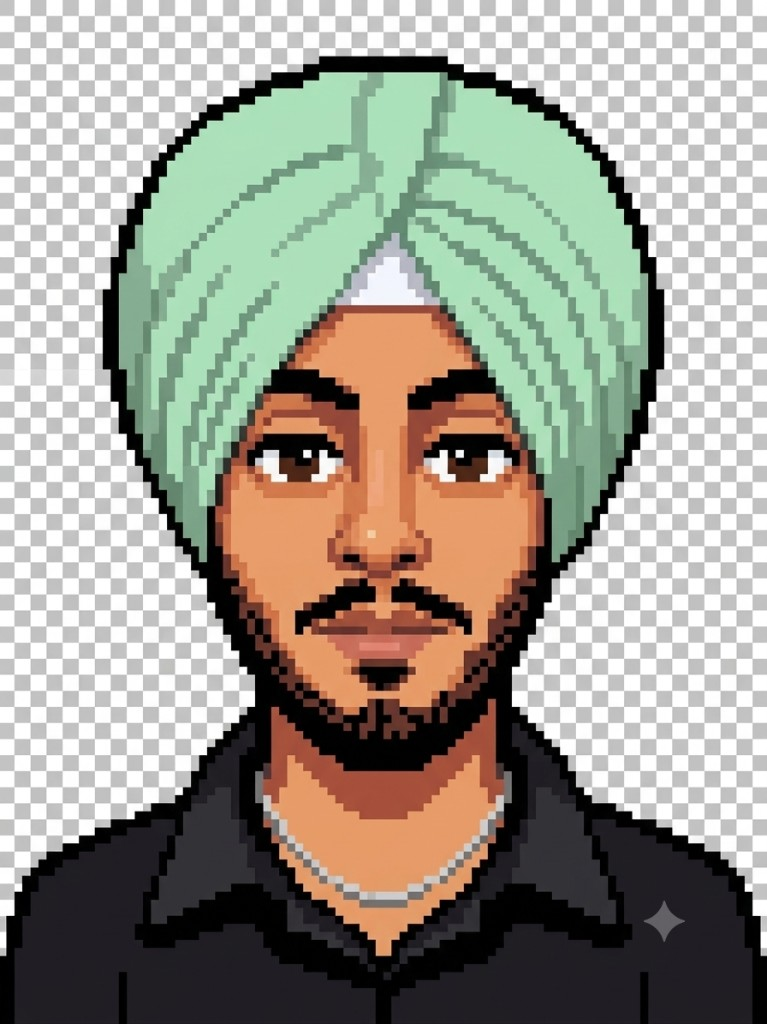
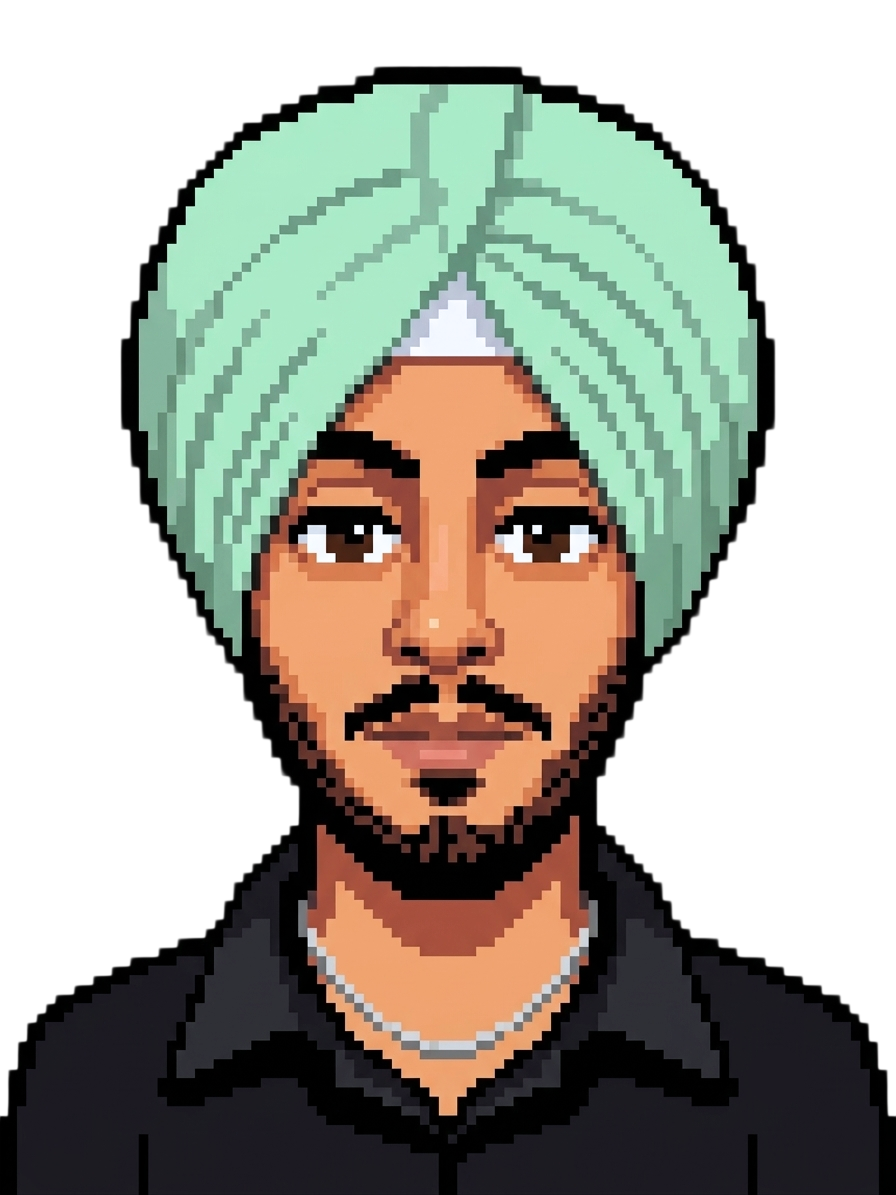
fixed bugs and alingment

Changed region(s): [[0.0, 0.0, 1.0, 0.9375], [0.8396, 0.875, 0.8996, 0.9375]]

diff --git a/app/frontend/src/pages/Home.jsx b/app/frontend/src/pages/Home.jsx
@@ -11,7 +11,7 @@ import LatestGitHubCommit from '@/components/github/LatestGitHubCommit';
 const socials = [
   {
     label: 'Twitter',
-    url: 'https://x.com/ranvir_singh_15',
+    url: 'https://x.com/RanvirxD',
     icon: <svg viewBox="0 0 24 24" fill="none" stroke="currentColor" strokeWidth="1.5" strokeLinecap="round" strokeLinejoin="round" className="w-5 h-5"><path d="M4 4l11.733 16h4.267l-11.733 -16z" /><path d="M4 20l6.768 -6.768m2.46 -2.46l6.772 -6.772" /></svg>,
   },
   {
@@ -26,12 +26,12 @@ const socials = [
   },
   {
     label: 'YouTube',
-    url: 'https://youtube.com/@ranvir_singh',
+    url: 'https://www.youtube.com/@Burnet-Builds',
     icon: <svg viewBox="0 0 24 24" fill="none" stroke="currentColor" strokeWidth="1.5" strokeLinecap="round" strokeLinejoin="round" className="w-5 h-5"><path d="M22.54 6.42a2.78 2.78 0 0 0-1.94-2C18.88 4 12 4 12 4s-6.88 0-8.6.46a2.78 2.78 0 0 0-1.94 2A29 29 0 0 0 1 12a29 29 0 0 0 .46 5.58 2.78 2.78 0 0 0 1.94 2C5.12 20 12 20 12 20s6.88 0 8.6-.46a2.78 2.78 0 0 0 1.94-2A29 29 0 0 0 23 12a29 29 0 0 0-.46-5.58z" /><polygon points="9.75 15.02 15.5 12 9.75 8.98 9.75 15.02" /></svg>,
   },
   {
     label: 'Instagram',
-    url: 'https://instagram.com/ranvir._.singh',
+    url: 'https://www.instagram.com/burnetolo/',
     icon: <svg viewBox="0 0 24 24" fill="none" stroke="currentColor" strokeWidth="1.5" strokeLinecap="round" strokeLinejoin="round" className="w-5 h-5"><rect x="2" y="2" width="20" height="20" rx="5" ry="5" /><path d="M16 11.37A4 4 0 1 1 12.63 8 4 4 0 0 1 16 11.37z" /><line x1="17.5" y1="6.5" x2="17.51" y2="6.5" /></svg>,
   },
   {
@@ -138,7 +138,7 @@ export default function Home() {
           </FadeUp>
           <FadeUp delay={0.35}>
             <div className="mt-8 flex flex-wrap gap-2">
-              {['Freelance', 'DSA', 'Competitive Programming', 'Open Source'].map((t) => (
+              {['Freelance', 'DSA', 'Cloud & Devops', 'Full Stack'].map((t) => (
                 <span key={t} className="mono-label px-3 py-1.5 border border-border">
                   {t}
                 </span>
@@ -157,7 +157,7 @@ export default function Home() {
                 <div className="flow-row grid grid-cols-1 md:grid-cols-12 gap-4 md:gap-6 py-6 md:py-8">
                   <div className="md:col-span-2 font-mono text-sm text-muted-foreground pt-2">{e.period}</div>
                   <div className="md:col-span-4">
-                    <h3 className="font-serif text-4xl md:text-5xl leading-none">{e.company}</h3>
+                  <h3 className="font-serif text-3xl md:text-4xl leading-[1.1]">  {e.company}</h3>
                     <p className="mt-2 text-base text-muted-foreground">{e.role} · {e.location}</p>
                   </div>
                   <p className="md:col-span-6 text-base text-muted-foreground leading-relaxed">{e.points[0]}</p>

diff --git a/app/frontend/src/data/portfolio.js b/app/frontend/src/data/portfolio.js
@@ -2,7 +2,7 @@
 export const profile = {
   name: "Ranvir Singh",
   role: "Computer Science Engineer",
-  tagline: "I build full-stack systems that ship — real-time platforms, ML pipelines, and production infrastructure.",
+  tagline: "I build full-stack systems Cloud Platforms, ML pipelines, and production infrastructure.",
   location: "Gurugram, India",
   email: "ranvirsingh.15h@gmail.com",
   phone: "+91 8320263271",

diff --git a/app/frontend/src/components/layout/Footer.jsx b/app/frontend/src/components/layout/Footer.jsx
@@ -51,7 +51,7 @@ export default function Footer() {
           </div>
         </div>
 
-        <div className="mt-24 overflow-hidden -mx-6 md:-mx-10">
+        <div className="mt-10 overflow-visible -mx-6 md:-mx-10">
           <p className="font-serif text-[18vw] md:text-[8.7vw] leading-none outline-text text-center">
             no-fluff engineering;
           </p>
